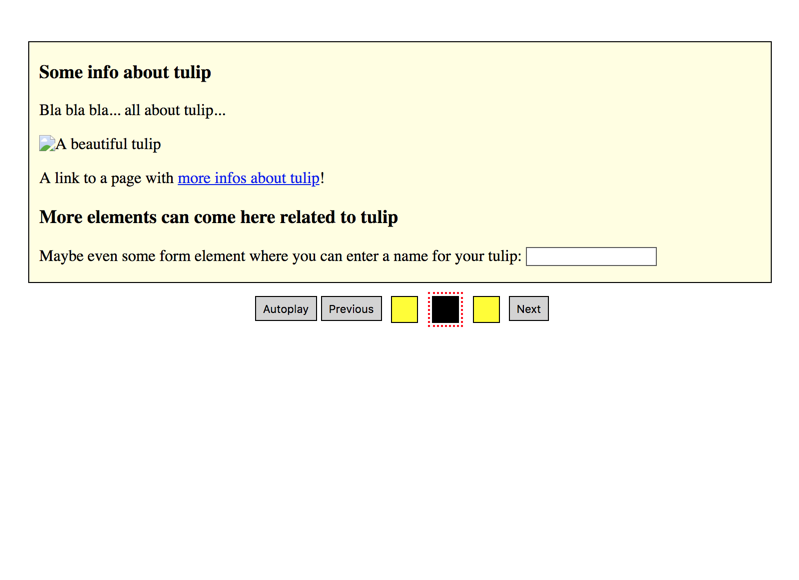
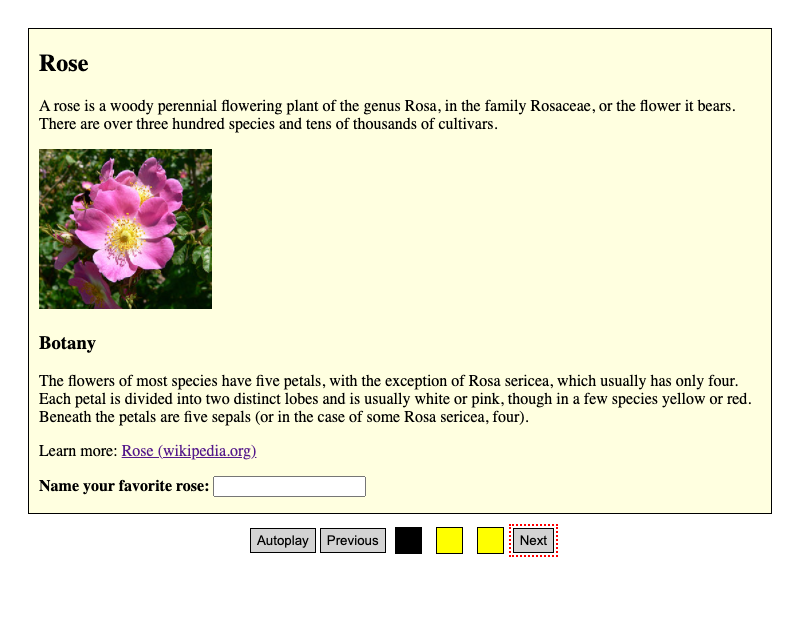
ADG-142 feat: update screenshot and carousel content

diff --git a/pages/examples/widgets/carousel/_examples/carousel-with-radio-buttons/index.html b/pages/examples/widgets/carousel/_examples/carousel-with-radio-buttons/index.html
@@ -3,7 +3,7 @@
 </p>
 <div class="carousel">
   <h1 class="visually-hidden">
-    flowers (carousel)
+    Flowers (carousel)
   </h1>
   <p class="visually-hidden">
     Carousel help: use the carousel controls to toggle the visibility of their respective panels (below the controls).
@@ -30,72 +30,69 @@
     </div>
   </fieldset>
   <div class="panel" id="carousel_flowers_panel_rose_panel" style="display: block">
-    <h2 class="visually-hidden">
-      rose (panel)
+    <h2>
+      Rose<span class="visually-hidden"> (panel)</span>
     </h2>
+    <p>
+      A rose is a woody perennial flowering plant of the genus Rosa, in the family Rosaceae, or the flower it bears. There are over three hundred species and tens of thousands of cultivars.
+    </p>
+    <img src="https://upload.wikimedia.org/wikipedia/commons/thumb/e/e6/Rosa_rubiginosa_1.jpg/259px-Rosa_rubiginosa_1.jpg" alt="Rosa rubiginosa by Stan Shebs (wikimedia.org)" height="160">
     <h3>
-      Some info about rose
+      Botany
     </h3>
     <p>
-      Bla bla bla... all about rose...
+      The flowers of most species have five petals, with the exception of Rosa sericea, which usually has only four. Each petal is divided into two distinct lobes and is usually white or pink, though in a few species yellow or red. Beneath the petals are five sepals (or in the case of some Rosa sericea, four).
     </p>
     <p>
-      <img alt="A beautiful rose" src="..." />
+      Learn more: <a href="https://en.wikipedia.org/wiki/Rose" target="_blank">Rose (wikipedia.org)</a>
     </p>
     <p>
-      A link to a page with <a href="#">more infos about rose</a>!
-    </p>
-    <h3>
-      More elements can come here related to rose
-    </h3>
-    <p>
-      Maybe even some form element where you can enter a name for your rose: <input type="text" />
+      <label for="first_input"><strong>Name your favorite rose:</strong></label>
+      <input id="first_input" type="text" />
     </p>
   </div>
   <div class="panel" id="carousel_flowers_panel_tulip_panel" style="display: none">
-    <h2 class="visually-hidden">
-      tulip (panel)
+    <h2>
+      Tulip<span class="visually-hidden"> (panel)</span>
     </h2>
+    <p>
+      Tulips are a genus of spring-blooming perennial herbaceous bulbiferous geophytes. The flowers are usually large, showy and brightly colored, generally red, pink, yellow, or white.
+    </p>
+    <img src="https://upload.wikimedia.org/wikipedia/commons/thumb/f/f5/The_Dallas_Arboretum_and_Botanical_Garden.jpg/320px-The_Dallas_Arboretum_and_Botanical_Garden.jpg" alt="Red and pink tulips by Inuyas (wikimedia.org)" height="160">
     <h3>
-      Some info about tulip
+      Description
     </h3>
     <p>
-      Bla bla bla... all about tulip...
+      The tulip’s flowers are usually large and are actinomorphic (radially symmetric) and hermaphrodite (contain both male and female characteristics), generally erect, or more rarely pendulous, and are arranged more usually as a single terminal flower. In structure, the flower is generally cup or star shaped.
     </p>
     <p>
-      <img alt="A beautiful tulip" src="..." />
+      Learn more: <a href="https://en.wikipedia.org/wiki/Tulip" target="_blank">Tulip (wikipedia.org)</a>
     </p>
     <p>
-      A link to a page with <a href="#">more infos about tulip</a>!
-    </p>
-    <h3>
-      More elements can come here related to tulip
-    </h3>
-    <p>
-      Maybe even some form element where you can enter a name for your tulip: <input type="text" />
+      <label for="second_input"><strong>Name your favorite tulip:</strong></label>
+      <input id="second_input" type="text" />
     </p>
   </div>
   <div class="panel" id="carousel_flowers_panel_sunflower_panel" style="display: none">
-    <h2 class="visually-hidden">
-      sunflower (panel)
+    <h2>
+      Sunflower<span class="visually-hidden"> (panel)</span>
     </h2>
+    <p>
+      Helianthus annuus, the common sunflower, is a large annual forb of the genus Helianthus. The name sunflower may derive from the flower’s head’s shape, which resembles the sun.
+    </p>
+    <img src="https://upload.wikimedia.org/wikipedia/commons/thumb/4/40/Sunflower_sky_backdrop.jpg/217px-Sunflower_sky_backdrop.jpg" alt="Sunflower against a blue sky by Fir0002 (wikimedia.org)" height="160">
     <h3>
-      Some info about sunflower
+      Description
     </h3>
     <p>
-      Bla bla bla... all about sunflower...
+      The plant has an erect rough-hairy stem, reaching typical heights of 3 metres. Sunflower leaves are broad, coarsely toothed, rough and mostly alternate. What is often called the "flower" of the sunflower is actually a "flower head" or pseudanthium of numerous small individual five-petaled flowers.
     </p>
     <p>
-      <img alt="A beautiful sunflower" src="..." />
+      Learn more: <a href="https://en.wikipedia.org/wiki/Helianthus_annuus" target="_blank">Sunflower (wikipedia.org)</a>
     </p>
     <p>
-      A link to a page with <a href="#">more infos about sunflower</a>!
-    </p>
-    <h3>
-      More elements can come here related to sunflower
-    </h3>
-    <p>
-      Maybe even some form element where you can enter a name for your sunflower: <input type="text" />
+      <label for="third_input"><strong>Name your favorite sunflower:</strong></label>
+      <input id="third_input" type="text" />
     </p>
   </div>
 </div>
